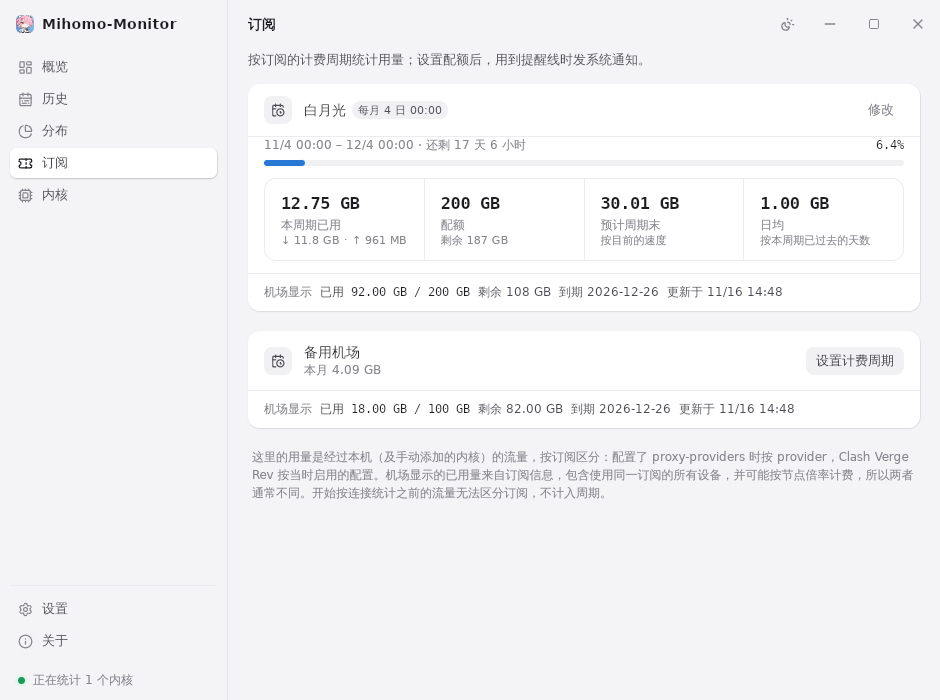
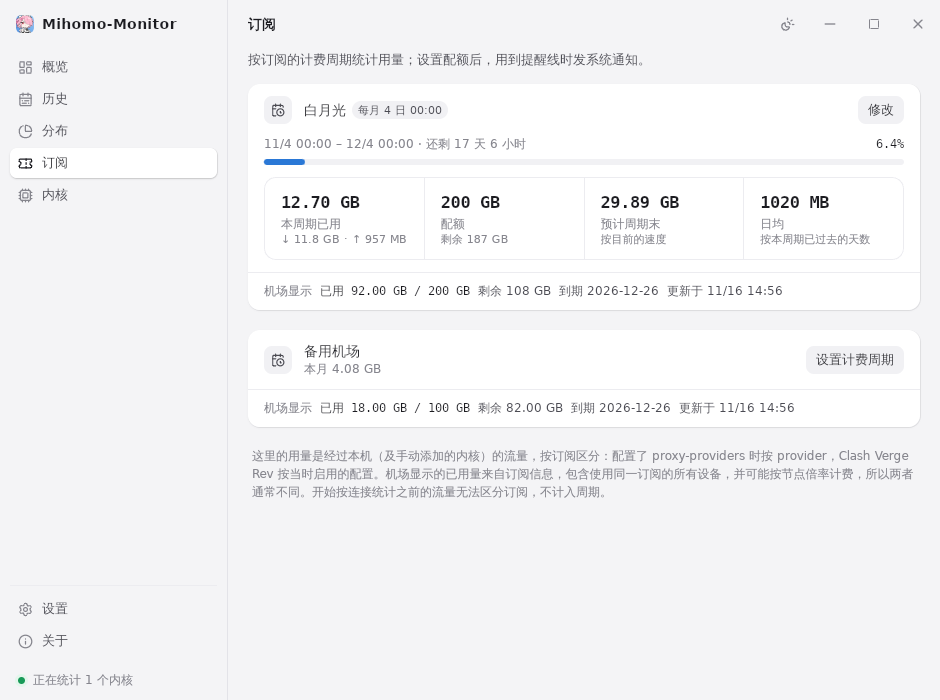
修复订阅页周期卡片多出的分隔线，修改按钮改为与设置按钮一致的样式

diff --git a/app/src/pages/SubscriptionsPage.tsx b/app/src/pages/SubscriptionsPage.tsx
@@ -51,7 +51,7 @@ function CycleBody({ c, now }: { c: CycleView; now: number }) {
   const pct = percentUsed(c);
   const days = Math.max(1, (Math.min(now, c.end) - c.start) / 86400);
   return (
-    <div className="space-y-3 px-4 pb-3">
+    <div className="space-y-3 border-t-0 px-4 pb-3">
       <div>
         <div className="mb-1.5 flex items-baseline justify-between gap-3 text-[12px]">
           <span className="text-muted">
@@ -121,7 +121,7 @@ export function SubscriptionsPage() {
                   </div>
                   {!s.cycle && <div className="text-[11.5px] text-muted">本月 {bytes(s.month.up + s.month.down)}</div>}
                 </div>
-                <Button size="sm" variant={s.cycle ? "ghost" : "outline"} onClick={() => setEditing(s)}>
+                <Button size="sm" variant="outline" onClick={() => setEditing(s)}>
                   {s.cycle ? "修改" : "设置计费周期"}
                 </Button>
               </div>
